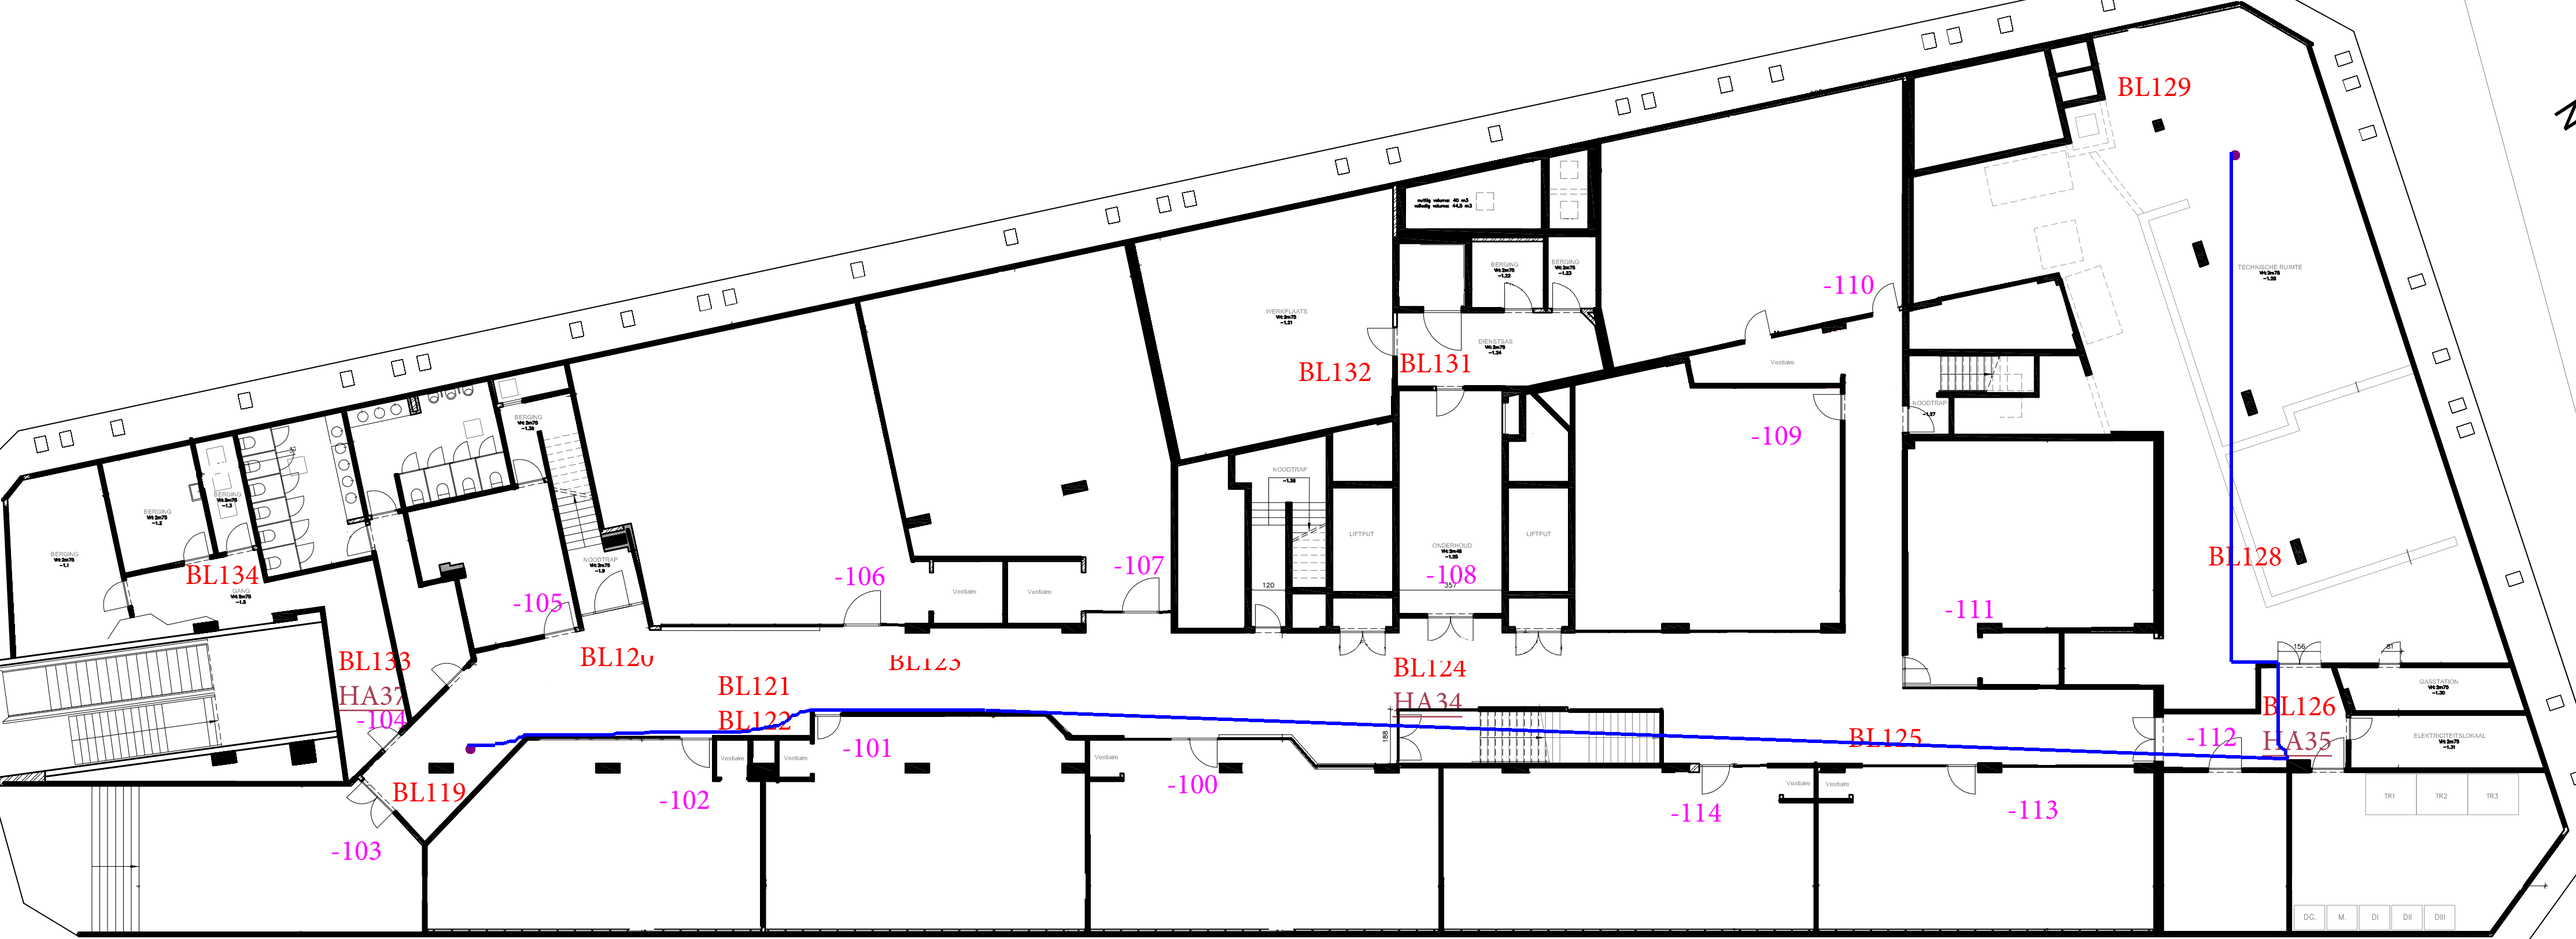
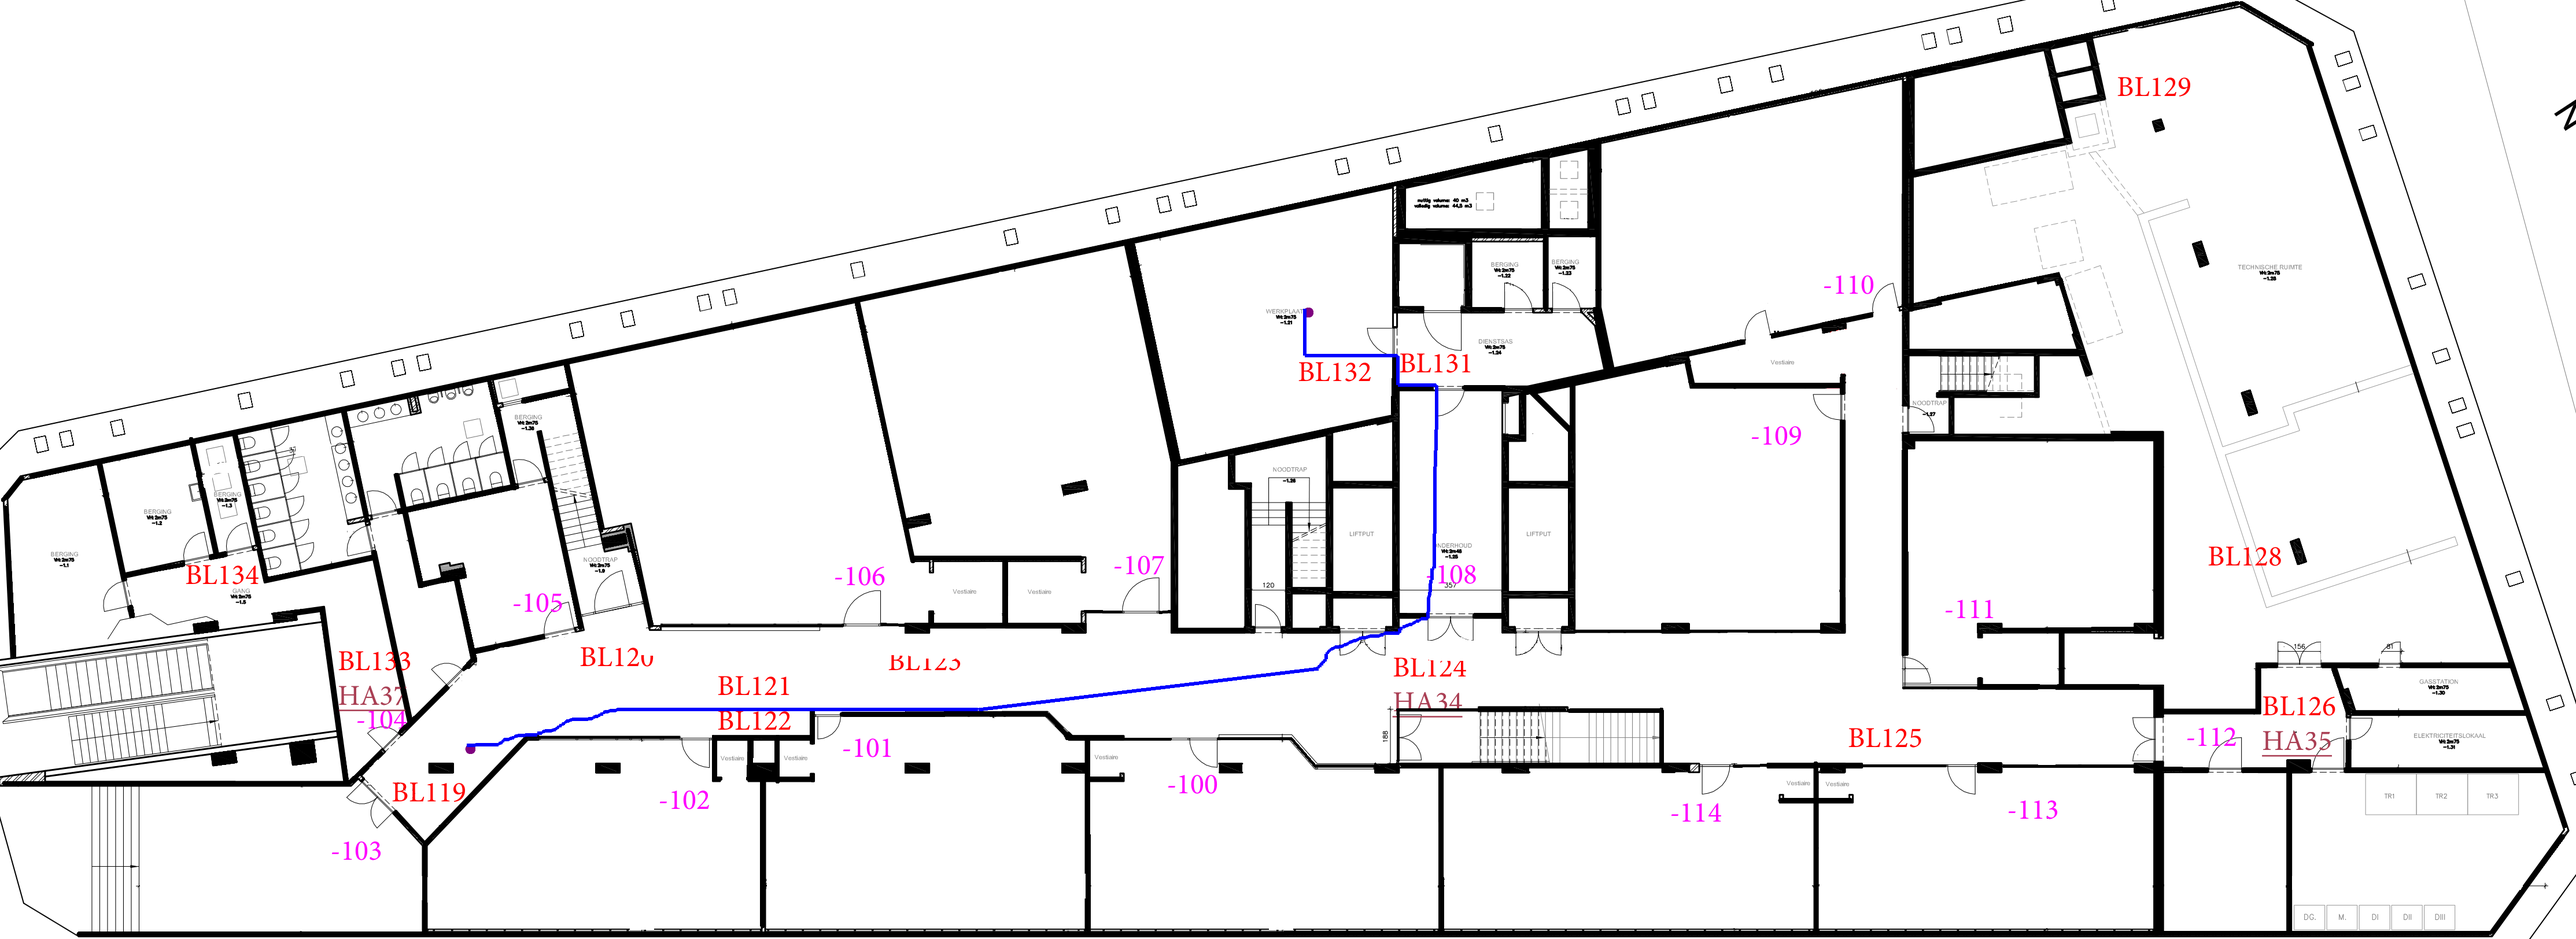
AStar improved , bidirectional one also improved however with going to room -100 it still magically goes trough the walls but not with other rooms

diff --git a/Domain/AStarAlgorithm/AStarBidirectional.cs b/Domain/AStarAlgorithm/AStarBidirectional.cs
@@ -7,122 +7,106 @@ public class AStarBidirectional
 public static List<Point> FindPathBidirectional(Point start, Point end, HashSet<Point> walkablePoints)
 {
     if (!walkablePoints.Contains(start) || !walkablePoints.Contains(end))
-    {
-        Console.WriteLine("Start or end point is not walkable.");
         return new List<Point>();
-    }
 
-        var openSetStart = new PriorityQueue<Node, double>();
-        var openSetEnd = new PriorityQueue<Node, double>();
-        var nodeDictionary = walkablePoints.ToDictionary(p => p, p => new Node(p));
-        var closedSetStart = new HashSet<Node>();
-        var closedSetEnd = new HashSet<Node>();
+    var openSetStart = new PriorityQueue<Node, double>();
+    var openSetEnd = new PriorityQueue<Node, double>();
+    var nodeDictionary = new Dictionary<Point, Node>();
+    var closedSetStart = new HashSet<Point>();
+    var closedSetEnd = new HashSet<Point>();
 
-        var startNode = nodeDictionary[start];
-        var endNode = nodeDictionary[end];
-        startNode.GCost = 0;
-        startNode.HCost = GetDistance(start, end);
-        endNode.GCost = 0;
-        endNode.HCost = GetDistance(end, start);
-        openSetStart.Enqueue(startNode, startNode.FCost);
-        openSetEnd.Enqueue(endNode, endNode.FCost);
+    var startNode = GetOrCreateNode(start, nodeDictionary);
+    var endNode = GetOrCreateNode(end, nodeDictionary);
+    startNode.GCost = 0;
+    startNode.HCost = GetDistance(start, end);
+    endNode.GCost = 0;
+    endNode.HCost = GetDistance(end, start);
+    openSetStart.Enqueue(startNode, startNode.FCost);
+    openSetEnd.Enqueue(endNode, endNode.FCost);
 
-        int iterationCount = 0;
-        const int maxIterations = 7000000;
-
-        Console.WriteLine("Start bidirectional pathfinding...");
-        while (openSetStart.Count > 0 && openSetEnd.Count > 0)
-        {
-            iterationCount++;
-            if (iterationCount > maxIterations)
-            {
-                Console.WriteLine("Exceeded maximum iterations, breaking out of loop.");
-                break;
-            }
-
-            var currentNodeStart = openSetStart.Dequeue();
-            var currentNodeEnd = openSetEnd.Dequeue();
-
-            if (closedSetEnd.Contains(currentNodeStart) || closedSetStart.Contains(currentNodeEnd))
-            {
-                Console.WriteLine("Path found.");
-                return RetracePathBidirectional(nodeDictionary[start], nodeDictionary[end], currentNodeStart, currentNodeEnd);
-            }
-
-            closedSetStart.Add(currentNodeStart);
-            closedSetEnd.Add(currentNodeEnd);
-
-            Parallel.Invoke(
-                () => ProcessNeighbors(currentNodeStart, nodeDictionary, closedSetStart, openSetStart, end),
-                () => ProcessNeighbors(currentNodeEnd, nodeDictionary, closedSetEnd, openSetEnd, start)
-            );
-        }
-
-        Console.WriteLine("No path found.");
-        return new List<Point>();
-    }
-
-    private static void ProcessNeighbors(Node currentNode, Dictionary<Point, Node> nodeDictionary, HashSet<Node> closedSet, PriorityQueue<Node, double> openSet, Point target)
+    while (openSetStart.Count > 0 && openSetEnd.Count > 0)
     {
-        foreach (var neighbor in GetNeighbors(currentNode.Point, nodeDictionary))
-        {
-            if (closedSet.Contains(neighbor)) continue;
+        var currentNodeStart = openSetStart.Dequeue();
+        var currentNodeEnd = openSetEnd.Dequeue();
 
-            var tentativeGCost = currentNode.GCost + GetDistance(currentNode.Point, neighbor.Point);
+        if (closedSetEnd.Contains(currentNodeStart.Point) || closedSetStart.Contains(currentNodeEnd.Point))
+            return RetracePathBidirectional(startNode, endNode, currentNodeStart, currentNodeEnd);
 
-            if (tentativeGCost < neighbor.GCost)
-            {
-                neighbor.GCost = tentativeGCost;
-                neighbor.HCost = GetDistance(neighbor.Point, target);
-                neighbor.Parent = currentNode;
-                openSet.Enqueue(neighbor, neighbor.FCost);
-            }
-        }
+        closedSetStart.Add(currentNodeStart.Point);
+        closedSetEnd.Add(currentNodeEnd.Point);
+
+        ProcessNeighbors(currentNodeStart, nodeDictionary, closedSetStart, openSetStart, walkablePoints, end);
+        ProcessNeighbors(currentNodeEnd, nodeDictionary, closedSetEnd, openSetEnd, walkablePoints, start);
     }
+    return new List<Point>();
+}
 
-    private static IEnumerable<Node> GetNeighbors(Point point, Dictionary<Point, Node> nodeDictionary)
+private static void ProcessNeighbors(
+    Node currentNode,
+    Dictionary<Point, Node> nodeDictionary,
+    HashSet<Point> closedSet,
+    PriorityQueue<Node, double> openSet,
+    HashSet<Point> walkablePoints,
+    Point target)
+{
+    foreach (var (dx, dy) in new[] {(-1, 0), (1, 0), (0, -1), (0, 1)})
     {
-        var directions = new List<(double, double)>
-        {
-            (-1, 0), (1, 0), (0, -1), (0, 1),
-            (-1, -1), (1, -1), (-1, 1), (1, 1)
-        };
+        var neighborPoint = new Point(currentNode.Point.XWidth + dx, currentNode.Point.YHeight + dy);
+        if (!walkablePoints.Contains(neighborPoint) || closedSet.Contains(neighborPoint)) continue;
 
-        foreach (var (dx, dy) in directions)
+        var neighbor = GetOrCreateNode(neighborPoint, nodeDictionary);
+        var tentativeGCost = currentNode.GCost + 1;
+        if (tentativeGCost < neighbor.GCost)
         {
-            var neighborPoint = new Point(point.XWidth + dx, point.YHeight + dy);
-            if (nodeDictionary.TryGetValue(neighborPoint, out var neighbor))
-            {
-                yield return neighbor;
-            }
+            neighbor.GCost = tentativeGCost;
+            neighbor.HCost = GetDistance(neighbor.Point, target);
+            neighbor.Parent = currentNode;
+            openSet.Enqueue(neighbor, neighbor.FCost);
         }
     }
+}
 
-    private static double GetDistance(Point a, Point b)
+private static Node GetOrCreateNode(Point point, Dictionary<Point, Node> nodeDictionary)
+{
+    if (!nodeDictionary.TryGetValue(point, out var node))
     {
-        return Math.Abs(a.XWidth - b.XWidth) + Math.Abs(a.YHeight - b.YHeight); // Manhattan distance
+        node = new Node(point);
+        nodeDictionary.Add(point, node);
     }
+    return node;
+}
 
-    private static List<Point> RetracePathBidirectional(Node startNode, Node endNode, Node meetingNodeStart, Node meetingNodeEnd)
+private static double GetDistance(Point a, Point b)
+{
+    return Math.Abs(a.XWidth - b.XWidth) + Math.Abs(a.YHeight - b.YHeight);
+}
+
+private static List<Point> RetracePathBidirectional(
+    Node startNode,
+    Node endNode,
+    Node meetingNodeStart,
+    Node meetingNodeEnd)
+{
+    var pathFromStart = new List<Point>();
+    var current = meetingNodeStart;
+    while (current != null && current != startNode)
     {
-        var path = new List<Point>();
-        var currentNode = meetingNodeStart;
-
-        while (currentNode != null && !currentNode.Equals(startNode))
-        {
-            path.Add(currentNode.Point);
-            currentNode = currentNode.Parent;
-        }
-
-        path.Reverse();
-        currentNode = meetingNodeEnd.Parent;
-
-        while (currentNode != null && !currentNode.Equals(endNode))
-        {
-            path.Add(currentNode.Point);
-            currentNode = currentNode.Parent;
-        }
-
-        return path;
+        pathFromStart.Add(current.Point);
+        current = current.Parent;
     }
+    if (current == startNode) pathFromStart.Add(startNode.Point);
+    pathFromStart.Reverse();
+
+    var pathFromEnd = new List<Point>();
+    current = meetingNodeEnd;
+    while (current != null && current != endNode)
+    {
+        pathFromEnd.Add(current.Point);
+        current = current.Parent;
+    }
+    if (current == endNode) pathFromEnd.Add(endNode.Point);
+
+    pathFromStart.AddRange(pathFromEnd);
+    return pathFromStart;
+}
 }

diff --git a/Domain/AStarAlgorithm/AStarPathFinding.cs b/Domain/AStarAlgorithm/AStarPathFinding.cs
@@ -19,14 +19,25 @@ public class AStarPathfinding
 
         
         var openSet = new PriorityQueue<Node, double>();
-        
-        var nodeDictionary = walkablePoints.ToDictionary(p => p, p => new Node(p));
-        var closedSet = new HashSet<Node>();
+        var openSetLookup = new HashSet<Point>(); // New HashSet voor snelle lookup, O(1) als de node in de queue zit
+        var nodeDictionary = new Dictionary<Point, Node>();
+        var closedSet = new HashSet<Point>();
+        //ipv in begin alle 6-7miljoen punten in dictionary in te steken gaan we dat doen wnr het nodig is
+        Node GetOrCreateNode(Point point)
+        {
+            if (!nodeDictionary.TryGetValue(point, out var node))
+            {
+                node = new Node(point);
+                nodeDictionary.Add(point, node);
+            }
+            return node;
+        }
 
-        var startNode = nodeDictionary[start];
+        var startNode = GetOrCreateNode(start);
         startNode.GCost = 0;
         startNode.HCost = GetDistance(start, end);
         openSet.Enqueue(startNode, startNode.FCost);
+        openSetLookup.Add(start); // om straks te checken
         
         int iterationCount = 0;
         const int maxIterations = 7000000;//1 mil maar kan tot 6.988.086 gaan omdat da allemaal walkable points zijn
@@ -42,27 +53,37 @@ public class AStarPathfinding
             }
 
             var currentNode = openSet.Dequeue();
-            
+            openSetLookup.Remove(currentNode.Point); // Remove from lookup set when processing
+
             if (currentNode.Point.Equals(end))
             {
                 Console.WriteLine("Path found.");
                 return RetracePath(nodeDictionary[start], currentNode);
             }
             
-            closedSet.Add(currentNode);
+            closedSet.Add(currentNode.Point);
 
-            foreach (var neighbor in GetNeighbors(currentNode.Point, nodeDictionary))
+            //ipv dure functie GetNeighbors te callen, pakken we onmiddelijk de kardinale richtingen in array samen met de breedte en hoogte van de huidige node
+            foreach (var (dx, dy) in new[] { (-1, 0), (1, 0), (0, -1), (0, 1) })
             {
-                if (closedSet.Contains(neighbor)) continue; // Skip already processed nodes
+                var neighborPoint = new Point(currentNode.Point.XWidth + dx, currentNode.Point.YHeight + dy);
                 
-                var tentativeGCost = currentNode.GCost + GetDistance(currentNode.Point, neighbor.Point);
+                if (!walkablePoints.Contains(neighborPoint) || closedSet.Contains(neighborPoint)) continue; // Skip already processed nodes
+                
+                var neighbor = GetOrCreateNode(neighborPoint);
+                var tentativeGCost = currentNode.GCost + 1;
 
                 if (tentativeGCost < neighbor.GCost)
                 {
                     neighbor.GCost = tentativeGCost;
                     neighbor.HCost = GetDistance(neighbor.Point, end); 
                     neighbor.Parent = currentNode;
-                    openSet.Enqueue(neighbor, neighbor.FCost);
+                    if (!openSetLookup.Contains(neighbor.Point))
+                    {
+                        openSet.Enqueue(neighbor, neighbor.FCost);
+                        openSetLookup.Add(neighbor.Point); // Add to lookup set for fast check
+
+                    }
                 }
             }
         }
@@ -71,7 +92,7 @@ public class AStarPathfinding
         return new List<Point>();
     }
 
-    private static IEnumerable<Node> GetNeighbors(Point point, Dictionary<Point, Node> nodeDictionary)
+    /*private static IEnumerable<Node> GetNeighbors(Point point, Dictionary<Point, Node> nodeDictionary)
     {
         var directions = new List<(double, double)>
         {
@@ -87,7 +108,7 @@ public class AStarPathfinding
                 yield return neighbor;
             }
         }
-    }
+    }*/
 
     private static double GetDistance(Point a, Point b)
     {

diff --git a/PathfindingConsole/Program.cs b/PathfindingConsole/Program.cs
@@ -18,11 +18,12 @@ string imagePath = @"C:\Users\peril\Documents\KDG4\TheLab\Project\VitalRoutes\Ba
 
 
 
-Stopwatch stopwatch = new Stopwatch();
-stopwatch.Start();
+Stopwatch stopwatchAnalyzer = new Stopwatch();
+Stopwatch stopwatchAStar = new Stopwatch();
+stopwatchAnalyzer.Start();
 
 Point startCoord = new Point(807.0, 1289.0);
-Point endCoord = new Point(3858.0, 262.0);
+Point endCoord = new Point(2256.0, 534.0); //3858.0, 262.0 ;2256.0, 534.0
 
 var (start, end, walkablePoints) = FloorplanAnalyzer.GetWalkablePoints(imagePath, startCoord,endCoord);
 if (walkablePoints == null || walkablePoints.Count == 0)
@@ -30,6 +31,14 @@ if (walkablePoints == null || walkablePoints.Count == 0)
     Console.WriteLine("No walkable points found.");
     return;
 }
+stopwatchAnalyzer.Stop();
+TimeSpan tsAnalyzer = stopwatchAnalyzer.Elapsed;
+string elapsedTimeAnalyzer = String.Format("{0:00}:{1:00}:{2:00}.{3:00}",
+    tsAnalyzer.Hours, tsAnalyzer.Minutes, tsAnalyzer.Seconds,
+    tsAnalyzer.Milliseconds / 10);
+Console.WriteLine("Analyzer RunTime: " + elapsedTimeAnalyzer);
+
+
 
 var floorplan = new Floorplan("Kelder", 1, "1:100","floor_minus1.png" ) 
 {
@@ -38,16 +47,17 @@ var floorplan = new Floorplan("Kelder", 1, "1:100","floor_minus1.png" )
 
 Console.WriteLine($"Start point: ({start.XWidth}, {start.YHeight})");
 Console.WriteLine($"End point: ({end.XWidth}, {end.YHeight})");
-
+stopwatchAStar.Start();
 //var path = AStarPathfinding.FindPath( start, end, walkablePoints);
 var path = AStarBidirectional.FindPathBidirectional(start, end, walkablePoints);
 
 
-stopwatch.Stop();
-TimeSpan ts = stopwatch.Elapsed;
+stopwatchAStar.Stop();
+TimeSpan ts = stopwatchAStar.Elapsed;
 string elapsedTime = String.Format("{0:00}:{1:00}:{2:00}.{3:00}",
     ts.Hours, ts.Minutes, ts.Seconds,
     ts.Milliseconds / 10);
-Console.WriteLine("RunTime " + elapsedTime);
+Console.WriteLine("A Star only RunTime: " + elapsedTime);
+
 // Draw the path on the floorplan image
 FloorplanVisualizer.DrawFloorplanWithPath(floorplan, path, start, end, imagePath);

diff --git a/Domain/AStarAlgorithm/FloorplanAnalyzer.cs b/Domain/AStarAlgorithm/FloorplanAnalyzer.cs
@@ -1,4 +1,5 @@
 using System.Collections.Concurrent;
+using Microsoft.Extensions.ObjectPool;
 using SixLabors.ImageSharp;
 using SixLabors.ImageSharp.PixelFormats;
 
@@ -6,10 +7,6 @@ namespace Domain.AStarAlgorithm;
 
 public class FloorplanAnalyzer
 {
-    /*
-     * Blijft synchronous zodat de analyze vna de image nog nie meer complex wordt voor het systeem.
-     * Het bevat al multithreading en concurrentie list.
-     */
     public static (Point start, Point end, HashSet<Point>) GetWalkablePoints(string imagePath, Point startCoords, Point endCoords)
     {
         // ConcurrentBag is thread-safe
@@ -49,5 +46,7 @@ public class FloorplanAnalyzer
     public static bool IsBlackWall(Rgba32 pixel)
     {
         return pixel is { R: 0, G: 0, B: 0 }; // black
+        //return pixel.R < 50 && pixel.G < 50 && pixel.B < 50;
+
     }
 }

diff --git a/Domain/Point.cs b/Domain/Point.cs
@@ -9,6 +9,7 @@ public class Point
     public double YHeight {get; set;}
     public Floorplan Floorplan {get; set;}
     
+    public Point(){}
     public Point(double xWidth, double yHeight)
     {
         XWidth = xWidth;
